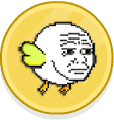
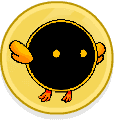
update

diff --git a/index.html b/index.html
@@ -2,7 +2,7 @@
 <html lang="en">
 
 <head>
-	<title>Flappy Wojak</title>
+	<title>Flappy Testicle</title>
 	<meta charset="UTF-8" />
 	<meta name="format-detection" content="telephone=no" />
 	<style>
@@ -107,11 +107,11 @@
 							<img data-src="/txt.png" alt="Image">
 						</h2>
 						<p class="about__text" data-watch-threshold="0.75" data-watch-once data-watch>
-							Flappy Wojak takes the nostalgia and chaos of Flappy Bird and fuses it with 
-							the emotional rollercoaster of Wojak culture. It’s fast, unpredictable, 
+							Flappy Testicle takes the nostalgia and chaos of Flappy Bird and fuses it with 
+							the emotional rollercoaster of Testicle culture. It’s fast, unpredictable, 
 							painfully relatable — and just like life, every tap feels like either victory or total disaster. 
 							Whether you’re soaring past the pipes or nosediving into pixelated defeat, 
-							Flappy Wojak reminds you that the grind never stops, even when the universe feels rigged. 
+							Flappy Testicle reminds you that the grind never stops, even when the universe feels rigged. 
 							Built for degenerates, memers, and everyone who keeps trying no matter how many times they crash. 🚀💀🕊
 						</p>
 						<div class="about__buttons">
@@ -191,7 +191,7 @@
 										NAME
 									</div>
 									<div class="tokenomics__value">
-										FLAPPY WOJAK
+										Flappy Testicle
 									</div>
 								</div>
 							</div>
@@ -469,7 +469,7 @@
 			<div class="footer__bottom">
 				<div class="footer__container">
 					<div class="footer__bottom-body">
-						<span>2025 © ALL RIGHTS RESERVED FLAPPY WOJAK</span>
+						<span>2025 © ALL RIGHTS RESERVED Flappy Testicle</span>
 					
 						</a>
 					</div>

diff --git a/Start_Game/data.js b/Start_Game/data.js
@@ -17,10 +17,10 @@ gdjs.projectData = {
         "projectUuid": "751eac1b-75ca-4fff-b26d-fa67517ca1f7",
         "scaleMode": "linear",
         "sizeOnStartupMode": "adaptWidth",
-        "templateSlug": "Flappy Wojak",
+        "templateSlug": "Flappy Testicle",
         "version": "1.0.0",
-        "name": "Flappy Wojak",
-        "description": "Tap to keep your Flappy Wojak in the air and make your way through the cave system. Get as far as you can before you crash in to a wall, submit your score, and try again.",
+        "name": "Flappy Testicle",
+        "description": "Tap to keep your Flappy Testicle in the air and make your way through the cave system. Get as far as you can before you crash in to a wall, submit your score, and try again.",
         "author": "",
         "windowWidth": 400,
         "windowHeight": 500,
@@ -763,7 +763,7 @@ gdjs.projectData = {
                 "name": "Text",
                 "type": "TextContainerCapability::TextContainerBehavior"
             }],
-            "string": "Flappy Wojak",
+            "string": "Flappy Testicle",
             "font": "04B_19.ttf",
             "textAlignment": "center",
             "characterSize": 70.0,
@@ -786,7 +786,7 @@ gdjs.projectData = {
                 "shadowOpacity": 127.0,
                 "smoothed": true,
                 "underlined": false,
-                "text": "Flappy Wojak",
+                "text": "Flappy Testicle",
                 "font": "04B_19.ttf",
                 "textAlignment": "center",
                 "verticalTextAlignment": "top",
